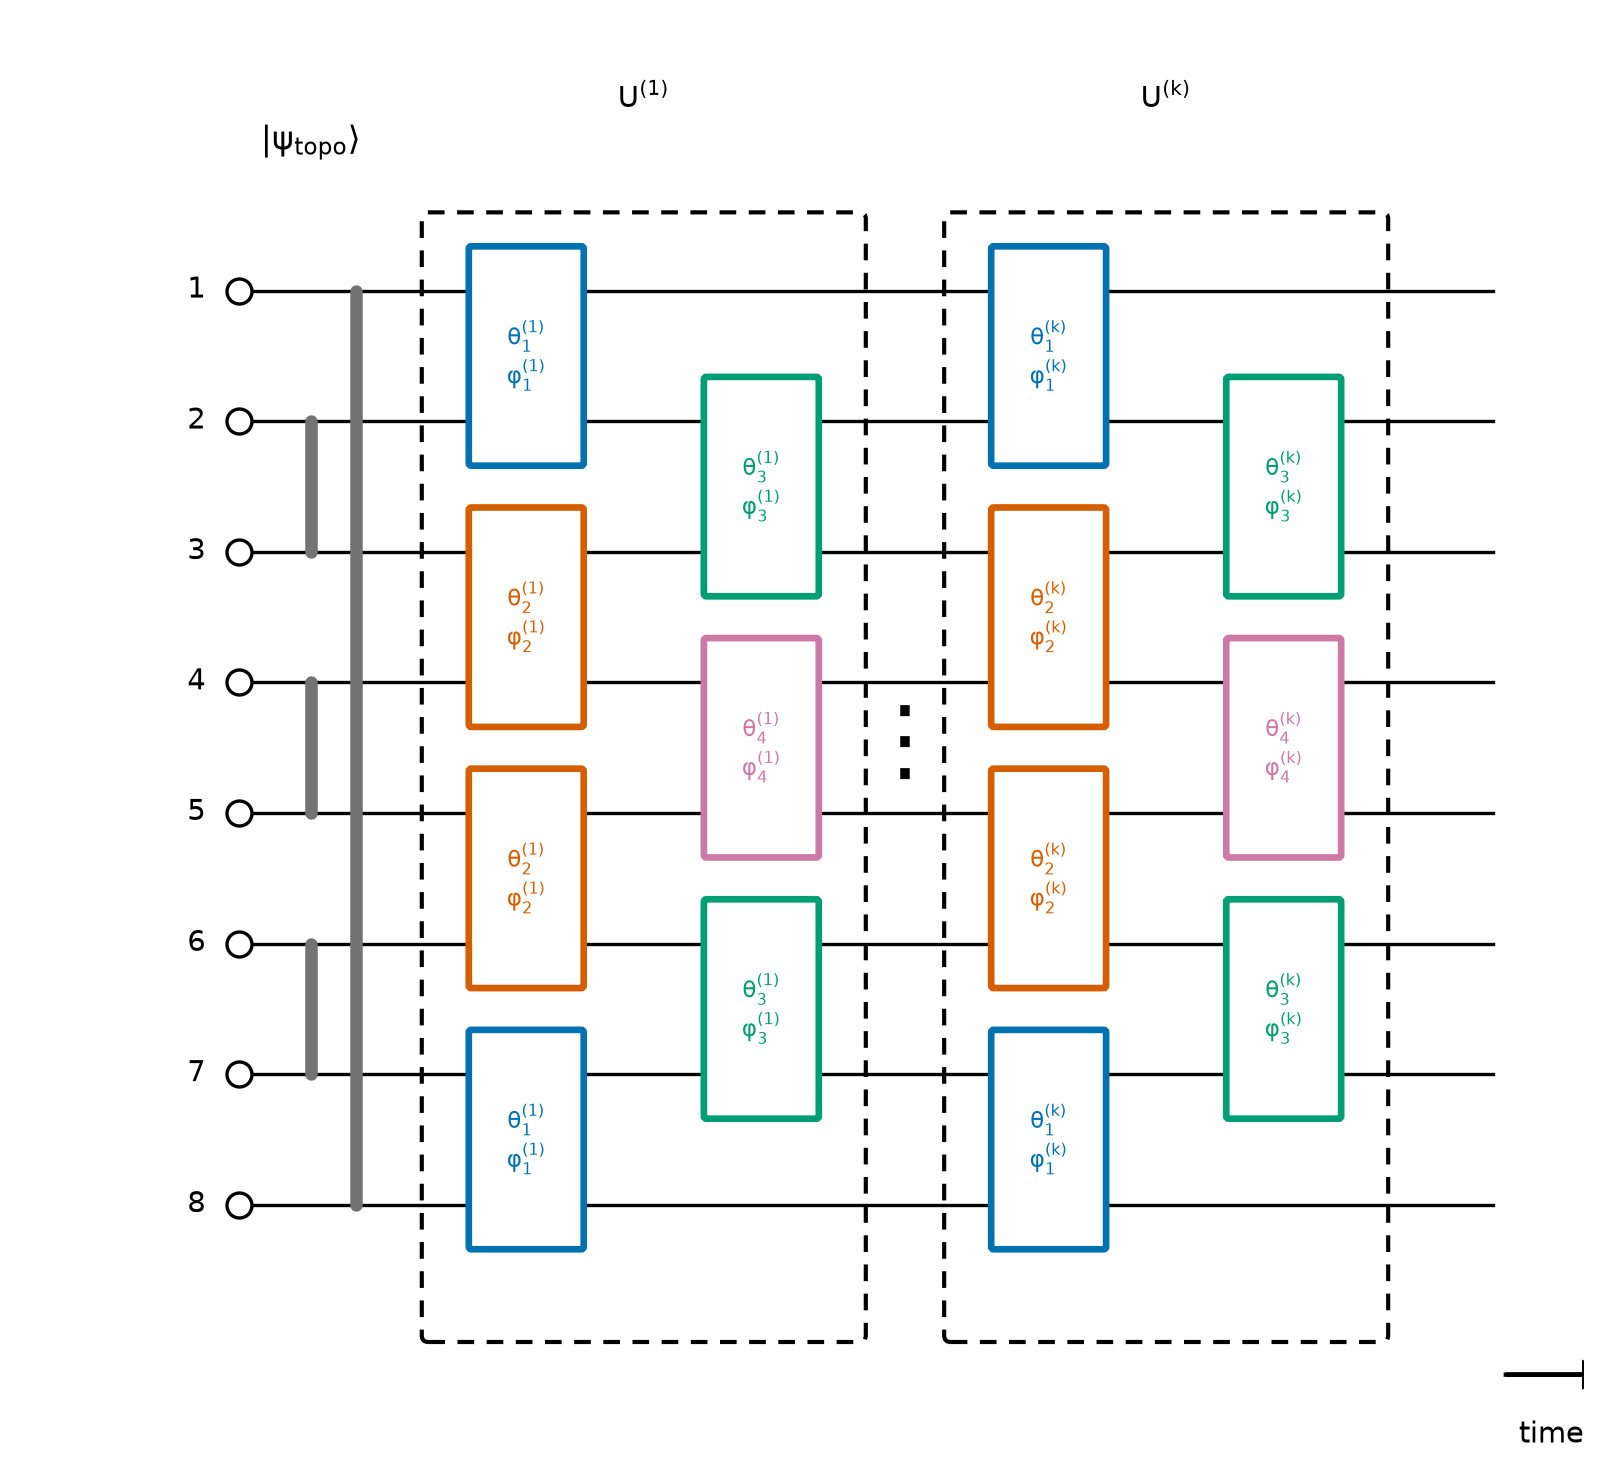
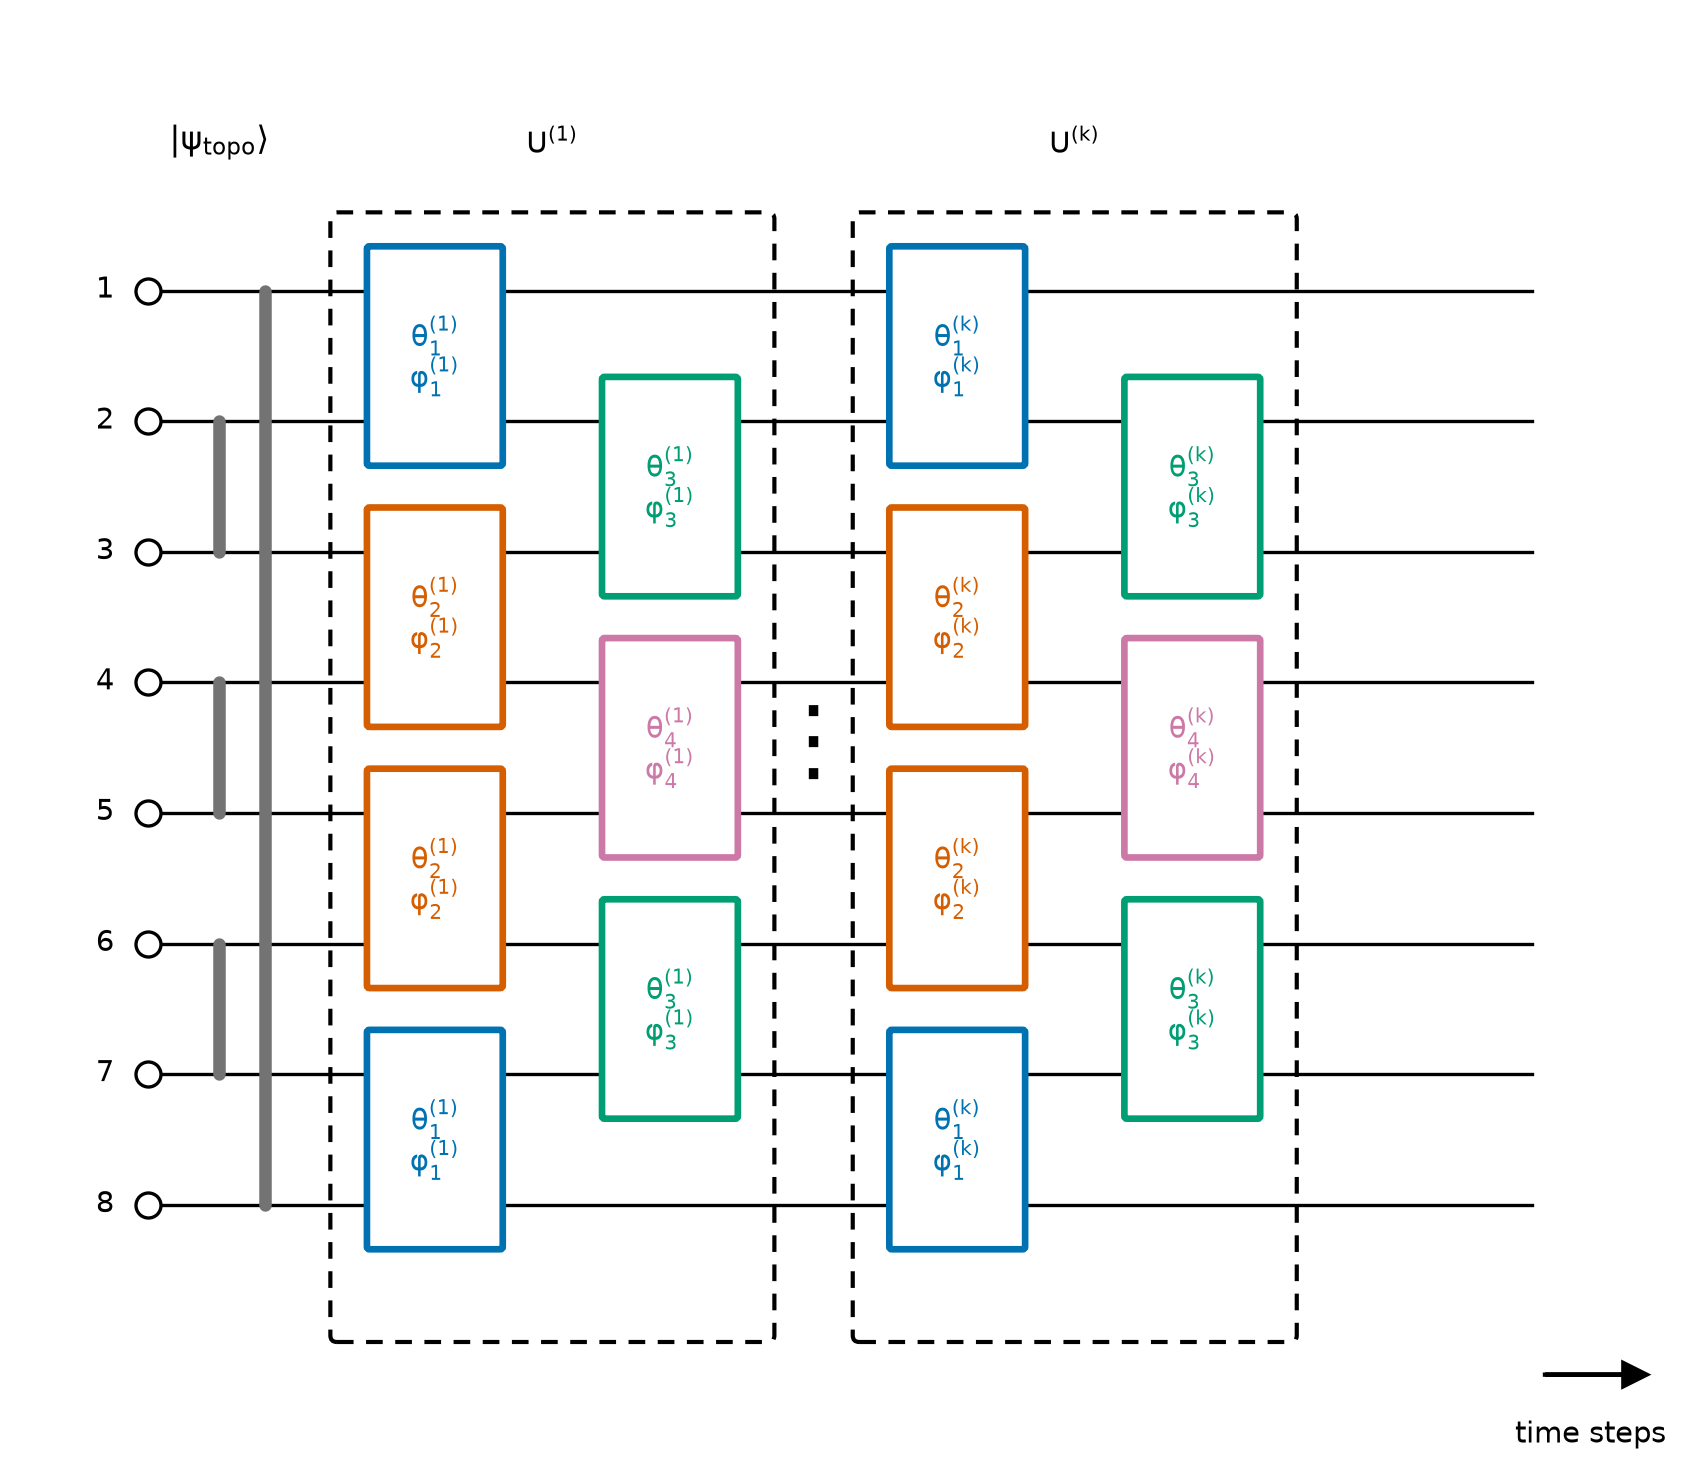
D06版式: U/ket同行, time steps箭头入图, 门框字放大

diff --git a/scripts/plot_D06.py b/scripts/plot_D06.py
@@ -42,7 +42,7 @@ def y_of(site):
     return N - site
 
 
-def draw_wires(ax, x0=0.0, x1=9.6):
+def draw_wires(ax, x0=0.0, x1=10.6):
     xs = np.arange(N)
     for i in range(N):
         ax.plot([x0, x1], [y_of(i + 1)] * 2, color="black", linewidth=0.8,
@@ -53,7 +53,8 @@ def draw_wires(ax, x0=0.0, x1=9.6):
                 va="center", fontsize=7)
     ax.arrow(x1 + 0.1, -1.3, 0.6, 0, head_width=0.18, head_length=0.18,
              fc="black", ec="black")
-    ax.text(x1 + 0.45, -1.65, "time", ha="center", va="top", fontsize=7)
+    ax.text(x1 + 0.45, -1.65, "time steps", ha="center", va="top",
+            fontsize=7)
 
 
 def link_bar(ax, a, b, x):
@@ -65,13 +66,13 @@ def link_bar(ax, a, b, x):
 def gate_box(ax, a, b, x, color, group, layer):
     """One orbit bond gate box spanning two wires."""
     ya, yb = y_of(a), y_of(b)
-    box = FancyBboxPatch((x - 0.42, yb - 0.32), 0.84, ya - yb + 0.64,
+    box = FancyBboxPatch((x - 0.5, yb - 0.32), 1.0, ya - yb + 0.64,
                          boxstyle="round,pad=0.02", facecolor="white",
                          edgecolor=color, linewidth=1.6)
     ax.add_patch(box)
     ax.text(x, (ya + yb) / 2, f"$\\theta^{{({layer})}}_{{{group}}}$" + "\n"
             f"$\\varphi^{{({layer})}}_{{{group}}}$", ha="center",
-            va="center", fontsize=5.5, color=color, linespacing=1.7)
+            va="center", fontsize=7, color=color, linespacing=1.4)
 
 
 def layer_frame(ax, x0, x1):
@@ -88,7 +89,7 @@ def draw_sublayer(ax, bonds, x, layer):
 
 
 def finish(ax):
-    ax.set_xlim(-1.6, 10.3)
+    ax.set_xlim(-0.9, 11.6)
     ax.set_ylim(-1.9, 9.0)
     ax.set_aspect("equal")
     ax.axis("off")
@@ -116,7 +117,7 @@ def main():
     os.makedirs(FIGDIR, exist_ok=True)
 
     # --- D06a trivial: odd-bond singlet pairs; F = even. ---
-    fig, ax = plt.subplots(figsize=(9.5, 5.0))
+    fig, ax = plt.subplots(figsize=(10.5, 5.0))
     draw_wires(ax)
     for a, b in [(1, 2), (3, 4), (5, 6), (7, 8)]:
         link_bar(ax, a, b, X_INIT)
@@ -125,14 +126,14 @@ def main():
     draw_sublayer(ax, EVEN_BONDS, X_F1, "1")
     draw_sublayer(ax, ODD_BONDS, X_S1, "1")
     layer_frame(ax, X_F1 - 0.75, X_S1 + 0.75)
-    ax.text((X_F1 + X_S1) / 2, 8.35, r"$U^{(1)}$", ha="center",
+    ax.text((X_F1 + X_S1) / 2, 8.0, r"$U^{(1)}$", ha="center",
             va="bottom", fontsize=7)
     ax.text(X_DOTS, 3.5, r"$\vdots$", ha="center", va="center",
             fontsize=22)
     draw_sublayer(ax, EVEN_BONDS, X_FK, "k")
     draw_sublayer(ax, ODD_BONDS, X_SK, "k")
     layer_frame(ax, X_FK - 0.75, X_SK + 0.75)
-    ax.text((X_FK + X_SK) / 2, 8.35, r"$U^{(k)}$", ha="center",
+    ax.text((X_FK + X_SK) / 2, 8.0, r"$U^{(k)}$", ha="center",
             va="bottom", fontsize=7)
     finish(ax)
     fig.tight_layout()
@@ -142,7 +143,7 @@ def main():
     print("wrote: figs/exp04/exp04_D06a.pdf + .png")
 
     # --- D06b topo: (1,8) link + even-bond pairs; F = odd. ---
-    fig, ax = plt.subplots(figsize=(9.5, 5.0))
+    fig, ax = plt.subplots(figsize=(10.5, 5.0))
     draw_wires(ax)
     for a, b in [(2, 3), (4, 5), (6, 7)]:
         link_bar(ax, a, b, X_INIT)
@@ -152,14 +153,14 @@ def main():
     draw_sublayer(ax, ODD_BONDS, X_F1, "1")
     draw_sublayer(ax, EVEN_BONDS, X_S1, "1")
     layer_frame(ax, X_F1 - 0.75, X_S1 + 0.75)
-    ax.text((X_F1 + X_S1) / 2, 8.35, r"$U^{(1)}$", ha="center",
+    ax.text((X_F1 + X_S1) / 2, 8.0, r"$U^{(1)}$", ha="center",
             va="bottom", fontsize=7)
     ax.text(X_DOTS, 3.5, r"$\vdots$", ha="center", va="center",
             fontsize=22)
     draw_sublayer(ax, ODD_BONDS, X_FK, "k")
     draw_sublayer(ax, EVEN_BONDS, X_SK, "k")
     layer_frame(ax, X_FK - 0.75, X_SK + 0.75)
-    ax.text((X_FK + X_SK) / 2, 8.35, r"$U^{(k)}$", ha="center",
+    ax.text((X_FK + X_SK) / 2, 8.0, r"$U^{(k)}$", ha="center",
             va="bottom", fontsize=7)
     finish(ax)
     fig.tight_layout()
@@ -170,7 +171,7 @@ def main():
 
     # --- D06c AFM: adjacent-link GHZ chain (qmeas xxz pidx=0 links);
     # F = even. ---
-    fig, ax = plt.subplots(figsize=(9.5, 5.0))
+    fig, ax = plt.subplots(figsize=(10.5, 5.0))
     draw_wires(ax)
     # GHZ cascade moments (qmeas xxz pidx=0 middle-out fan-out):
     # middle pair first, outward pairs in later moments, staggered in x.
@@ -187,14 +188,14 @@ def main():
     draw_sublayer(ax, EVEN_BONDS, X_F1, "1")
     draw_sublayer(ax, ODD_BONDS, X_S1, "1")
     layer_frame(ax, X_F1 - 0.75, X_S1 + 0.75)
-    ax.text((X_F1 + X_S1) / 2, 8.35, r"$U^{(1)}$", ha="center",
+    ax.text((X_F1 + X_S1) / 2, 8.0, r"$U^{(1)}$", ha="center",
             va="bottom", fontsize=7)
     ax.text(X_DOTS, 3.5, r"$\vdots$", ha="center", va="center",
             fontsize=22)
     draw_sublayer(ax, EVEN_BONDS, X_FK, "k")
     draw_sublayer(ax, ODD_BONDS, X_SK, "k")
     layer_frame(ax, X_FK - 0.75, X_SK + 0.75)
-    ax.text((X_FK + X_SK) / 2, 8.35, r"$U^{(k)}$", ha="center",
+    ax.text((X_FK + X_SK) / 2, 8.0, r"$U^{(k)}$", ha="center",
             va="bottom", fontsize=7)
     finish(ax)
     fig.tight_layout()
